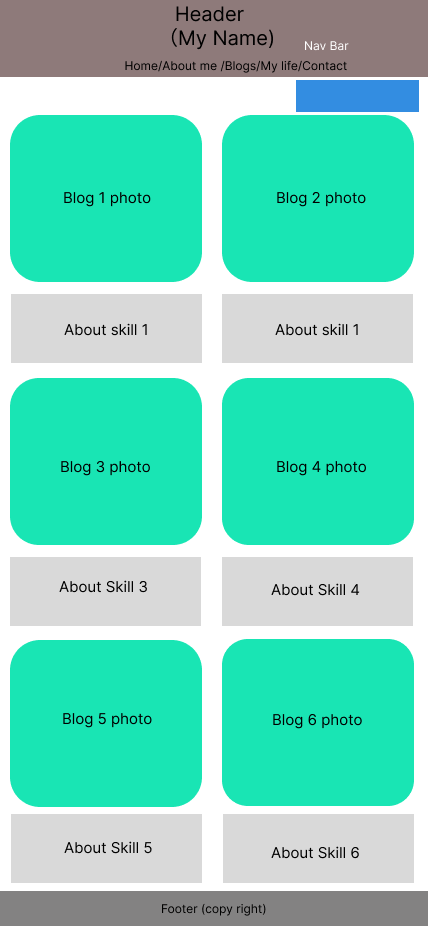
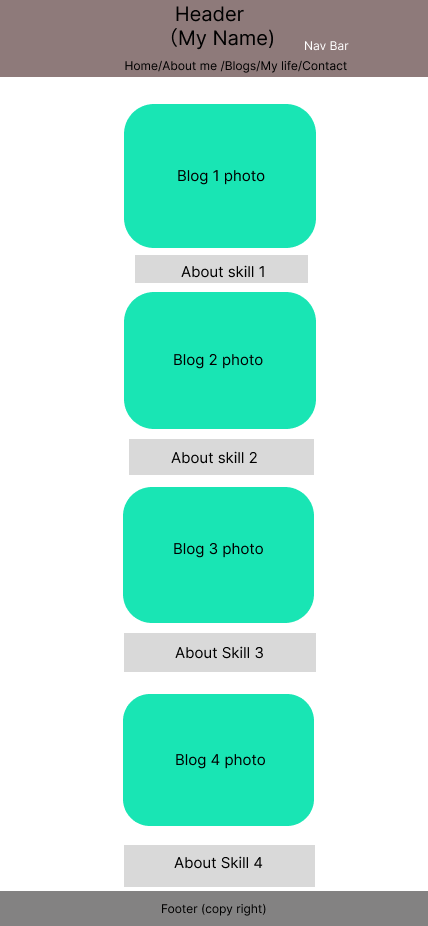
All pages layout are done

diff --git a/blogs.html b/blogs.html
@@ -5,6 +5,7 @@
     <meta name="viewport" content="width=device-width, initial-scale=1.0">
     <title>Portfolio home page</title>
     <link rel="stylesheet" href="style.css">
+    <link rel="stylesheet" href="blogs.css">
 </head>
 <body>
     <Header>
@@ -18,8 +19,47 @@
         </nav>
     </Header>  
     <main>
+        <h2>My Skills & Blogs</h2>
+        <section >
+            <img src="Images/dog.jpg" alt="hotellife1">
+            <h4>Hotel Back house management</h4>
+            <p>Lorem ipsum dolor sit amet consectetur adipisicing elit. Amet, nisi! Dolorum incidunt maiores eveniet magnam commodi cum pariatur ratione deserunt cupiditate officia assumenda voluptatibus in excepturi eligendi, est sequi. Quod.</p>
+            <a href="blog1.html">Read more...</a>
+        </section>
+        <section >
+            <img src="Images/dog.jpg" alt="hotellife2">
+            <h4>Hotel Front house management</h4>
+            <p>Lorem ipsum dolor sit amet consectetur adipisicing elit. Amet, nisi! Dolorum incidunt maiores eveniet magnam commodi cum pariatur ratione deserunt cupiditate officia assumenda voluptatibus in excepturi eligendi, est sequi. Quod.</p>
+            <a href="blog2.html">Read more...</a>
+        </section>
+        <section >
+            <img src="Images/dog.jpg" alt="HTML">
+            <h4>HTML</h4>
+            <p>Lorem ipsum dolor sit amet consectetur adipisicing elit. Amet, nisi! Dolorum incidunt maiores eveniet magnam commodi cum pariatur ratione deserunt cupiditate officia assumenda voluptatibus in excepturi eligendi, est sequi. Quod.</p>
+            <a href="blog3.html">Read more...</a>
+        </section>
+        <section >
+            <img src="Images/dog.jpg" alt="CSS">
+            <h4>CSS</h4>
+            <p>Lorem ipsum dolor sit amet consectetur adipisicing elit. Amet, nisi! Dolorum incidunt maiores eveniet magnam commodi cum pariatur ratione deserunt cupiditate officia assumenda voluptatibus in excepturi eligendi, est sequi. Quod.</p>
+            <a href="blog4.html">Read more...</a>
+        </section>
+        <section >
+            <img src="Images/dog.jpg" alt="Javascript">
+            <h4>Javascript Coming soon</h4>
+            <p>Lorem ipsum dolor sit amet consectetur adipisicing elit. Amet, nisi! Dolorum incidunt maiores eveniet magnam commodi cum pariatur ratione deserunt cupiditate officia assumenda voluptatibus in excepturi eligendi, est sequi. Quod.</p>
+            <a href="blog5.html">Read more...</a>
+        </section>
+        <section >
+            <img src="Images/dog.jpg" alt="Python">
+            <h4>Python Coming soon</h4>
+            <p>Lorem ipsum dolor sit amet consectetur adipisicing elit. Amet, nisi! Dolorum incidunt maiores eveniet magnam commodi cum pariatur ratione deserunt cupiditate officia assumenda voluptatibus in excepturi eligendi, est sequi. Quod.</p>
+            <a href="blog6.html">Read more...</a>
+        </section>
+
+
         
     </main>
-    <footer>the footer gose here</footer>
+    <footer>&copy;2024 Xintao Nian | All Rights Reserved</footer>
 </body>
 </html>

diff --git a/contact.html b/contact.html
@@ -5,6 +5,7 @@
     <meta name="viewport" content="width=device-width, initial-scale=1.0">
     <title>Portfolio home page</title>
     <link rel="stylesheet" href="style.css">
+    <link rel="stylesheet" href="contact.css">
 </head>
 <body>
     <Header>
@@ -18,8 +19,20 @@
         </nav>
     </Header>  
     <main>
-        
+       <section class="myimg"><img src="Images/dog.jpg" alt="my photo here"></section> 
+        <section class="section1">
+            <h3>Contact me as the following : </h3>
+        </section>
+        <section class="section2">
+            <ul class="contactinfo">
+                <li class="l1">Mobile Number : +61 411 222 333</li>
+                <li class="l2"><a class="email" href="mailto:Johnnian@coderacademy.com.au">Email Address : Johnnian@coderacademy.com.au</a></li>
+                <li class="l3">Home Address  : 123 Melbourne Road Melbourne VIC. 3000</li>
+                <li class="l4"><a class="button1" href="#">Github link</a></li>
+                <li class="l5"><a class="button2" href="#">My Youtube channel</a></li>
+            </ul>
+        </section>
     </main>
-    <footer>the footer gose here</footer>
+    <footer>&copy;2024 Xintao Nian | All Rights Reserved</footer>
 </body>
 </html>

diff --git a/contact.css b/contact.css
@@ -1,0 +1,66 @@
+
+
+.myimg > img {
+    height: 40dvh;
+    width: auto;
+    border-radius: 50%;
+    margin-bottom: 2em;
+    margin-top: 2em;
+    display: flex;
+    justify-content: center;
+    align-items: center;
+    object-fit: contain;
+}
+
+.section1 > h3 {
+    background-color: var(--french-gray-2);
+    padding: 1em;
+    border-radius: 2em;
+}
+
+.section2 > ul{
+    height: 40dvh;
+    margin-top: 4em;
+}
+
+.l1{
+    padding: 1em;
+}
+.l2{
+    padding: 1em;
+}
+.l3{
+    padding: 1em;
+}
+.l4{
+    padding: 1em;
+}
+.l5{
+    padding: 1em;
+}
+.email {
+    transition: 1s;
+    text-decoration: none;
+    color: black;
+
+}
+ .button1 {
+    transition: 1s;
+    text-decoration: none;
+    color: black;
+}
+.button2{
+    transition: 1s;
+    text-decoration: none;
+    color: black;
+}
+
+a:hover{
+    background-color: slategray;
+    font-size: large;
+    border-radius: 1.5em;
+    padding: 1em;
+    font-style: italic;
+    font-weight: bolder;
+    color: blue;
+}

diff --git a/blogs.css b/blogs.css
@@ -1,0 +1,46 @@
+main{
+    display: flex;
+    flex-direction: column;
+    justify-content: center;
+    align-items: center;
+    text-align: center;
+}
+
+main > section {
+    margin: 2em;
+    padding: 0.3em;
+    background-color:  rgb(74, 75, 77);
+    border-radius: 3em;
+    filter: drop-shadow(1em 1em 8px black);
+    width: 50dvw;
+}
+h2{
+    margin-top: 1em;
+}
+main > section > h4 {
+    margin: 2em;
+    color: #f8f9faff;
+}
+p{
+    color: #f8f9faff;
+    padding: 1em;
+}
+img{
+    height: 40dvh;
+    width: auto;
+    border-radius: 3em;
+    margin: 1em;
+}
+a{
+    text-decoration: none;
+    color: white;
+    margin: 0.5em;
+    transition: 1s;
+}
+a:hover{
+    color: blue;
+    font-size: large;
+    background-color: var(--antiflash-white);
+    border-radius: 2em;
+    padding: 1em;
+}

diff --git a/blog1.html b/blog1.html
@@ -1,0 +1,24 @@
+<!DOCTYPE html>
+<html lang="en">
+<head>
+    <meta charset="UTF-8">
+    <meta name="viewport" content="width=device-width, initial-scale=1.0">
+    <title>Blog/Skill 1</title>
+    <link rel="stylesheet" href="style.css">
+</head>
+<body>
+    <Header>
+       <h2>Xintao Nian</h2>
+        <nav>
+            <a href="/index.html">Home</a>
+            <a href="/aboutme.html">About me</a>
+            <a href="/blogs.html">Blogs</a>
+            <a href="/mylife.html">My life</a>
+            <a href="/contact.html">Contact me</a>
+        </nav>
+    </Header>  
+    <main>
+    </main>
+    <footer>&copy;2024 Xintao Nian | All Rights Reserved</footer>
+</body>
+</html>

diff --git a/blog2.html b/blog2.html
@@ -1,0 +1,24 @@
+<!DOCTYPE html>
+<html lang="en">
+<head>
+    <meta charset="UTF-8">
+    <meta name="viewport" content="width=device-width, initial-scale=1.0">
+    <title>Blog/Skill 1</title>
+    <link rel="stylesheet" href="style.css">
+</head>
+<body>
+    <Header>
+       <h2>Xintao Nian</h2>
+        <nav>
+            <a href="/index.html">Home</a>
+            <a href="/aboutme.html">About me</a>
+            <a href="/blogs.html">Blogs</a>
+            <a href="/mylife.html">My life</a>
+            <a href="/contact.html">Contact me</a>
+        </nav>
+    </Header>  
+    <main>
+    </main>
+    <footer>&copy;2024 Xintao Nian | All Rights Reserved</footer>
+</body>
+</html>

diff --git a/blog3.html b/blog3.html
@@ -1,0 +1,24 @@
+<!DOCTYPE html>
+<html lang="en">
+<head>
+    <meta charset="UTF-8">
+    <meta name="viewport" content="width=device-width, initial-scale=1.0">
+    <title>Blog/Skill 1</title>
+    <link rel="stylesheet" href="style.css">
+</head>
+<body>
+    <Header>
+       <h2>Xintao Nian</h2>
+        <nav>
+            <a href="/index.html">Home</a>
+            <a href="/aboutme.html">About me</a>
+            <a href="/blogs.html">Blogs</a>
+            <a href="/mylife.html">My life</a>
+            <a href="/contact.html">Contact me</a>
+        </nav>
+    </Header>  
+    <main>
+    </main>
+    <footer>&copy;2024 Xintao Nian | All Rights Reserved</footer>
+</body>
+</html>

diff --git a/blog4.html b/blog4.html
@@ -1,0 +1,24 @@
+<!DOCTYPE html>
+<html lang="en">
+<head>
+    <meta charset="UTF-8">
+    <meta name="viewport" content="width=device-width, initial-scale=1.0">
+    <title>Blog/Skill 1</title>
+    <link rel="stylesheet" href="style.css">
+</head>
+<body>
+    <Header>
+       <h2>Xintao Nian</h2>
+        <nav>
+            <a href="/index.html">Home</a>
+            <a href="/aboutme.html">About me</a>
+            <a href="/blogs.html">Blogs</a>
+            <a href="/mylife.html">My life</a>
+            <a href="/contact.html">Contact me</a>
+        </nav>
+    </Header>  
+    <main>
+    </main>
+    <footer>&copy;2024 Xintao Nian | All Rights Reserved</footer>
+</body>
+</html>

diff --git a/blog5.html b/blog5.html
@@ -1,0 +1,24 @@
+<!DOCTYPE html>
+<html lang="en">
+<head>
+    <meta charset="UTF-8">
+    <meta name="viewport" content="width=device-width, initial-scale=1.0">
+    <title>Blog/Skill 1</title>
+    <link rel="stylesheet" href="style.css">
+</head>
+<body>
+    <Header>
+       <h2>Xintao Nian</h2>
+        <nav>
+            <a href="/index.html">Home</a>
+            <a href="/aboutme.html">About me</a>
+            <a href="/blogs.html">Blogs</a>
+            <a href="/mylife.html">My life</a>
+            <a href="/contact.html">Contact me</a>
+        </nav>
+    </Header>  
+    <main>
+    </main>
+    <footer>&copy;2024 Xintao Nian | All Rights Reserved</footer>
+</body>
+</html>

diff --git a/blog6.html b/blog6.html
@@ -1,0 +1,24 @@
+<!DOCTYPE html>
+<html lang="en">
+<head>
+    <meta charset="UTF-8">
+    <meta name="viewport" content="width=device-width, initial-scale=1.0">
+    <title>Blog/Skill 1</title>
+    <link rel="stylesheet" href="style.css">
+</head>
+<body>
+    <Header>
+       <h2>Xintao Nian</h2>
+        <nav>
+            <a href="/index.html">Home</a>
+            <a href="/aboutme.html">About me</a>
+            <a href="/blogs.html">Blogs</a>
+            <a href="/mylife.html">My life</a>
+            <a href="/contact.html">Contact me</a>
+        </nav>
+    </Header>  
+    <main>
+    </main>
+    <footer>&copy;2024 Xintao Nian | All Rights Reserved</footer>
+</body>
+</html>
